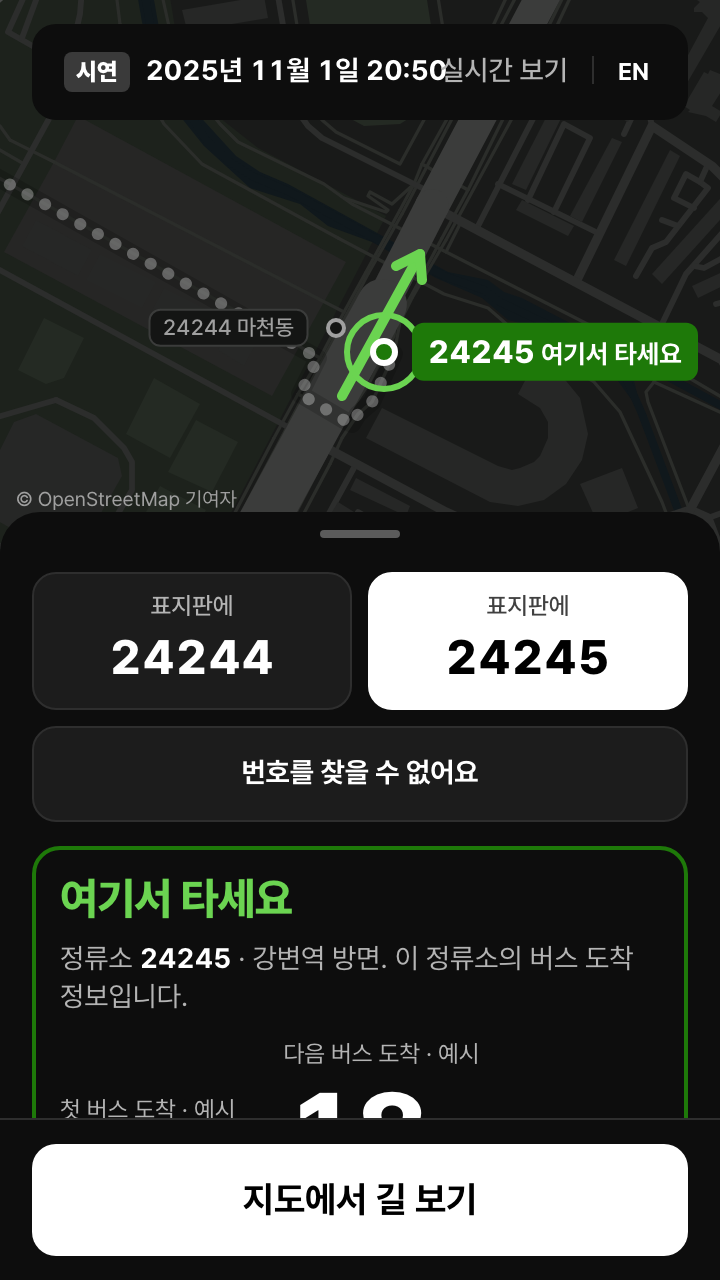
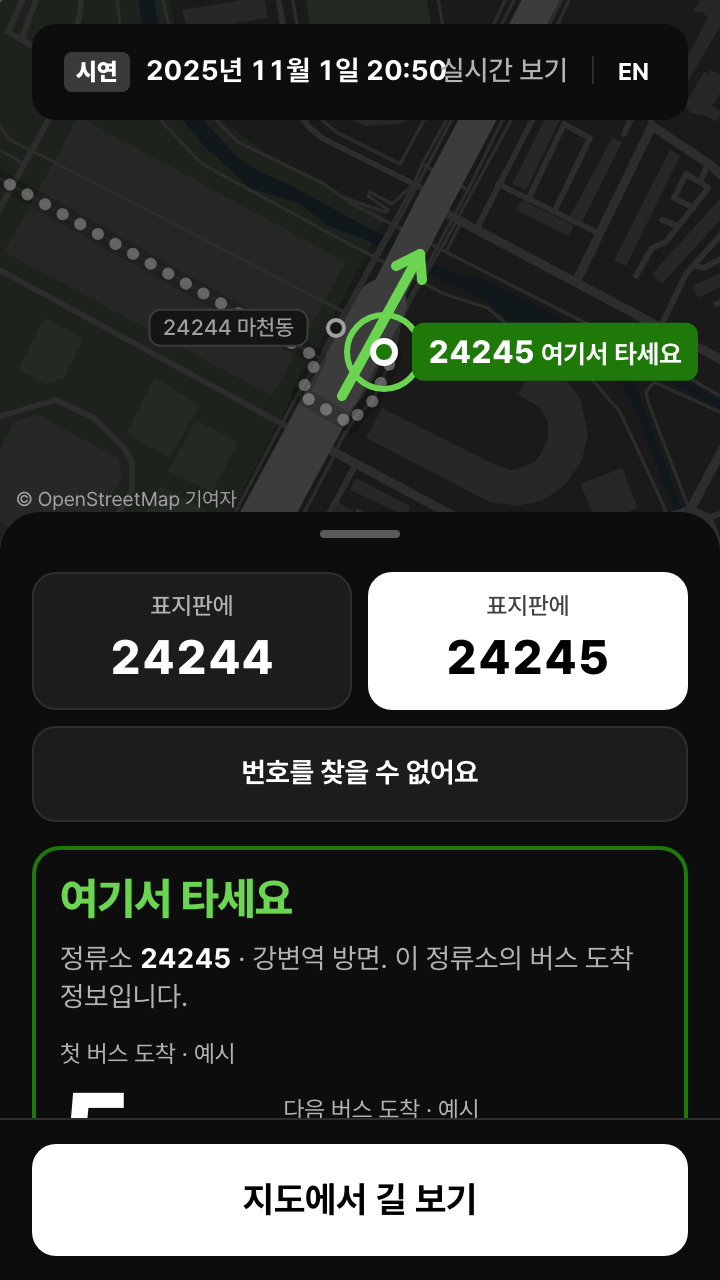
정류소 확인에서 맞는 번호를 누르면 도보 시간 없이 도착 판정

diff --git a/public/app.js b/public/app.js
@@ -88,9 +88,13 @@
   }).catch(function () { $('view').innerHTML = '<p class="pad">' + T('동선 자료를 불러오지 못했습니다. 새로고침해 주세요.', 'Could not load the route data. Please refresh.') + '</p>'; });
 
   // ---------- 버스 도착 ----------
+  // 정류소 확인에서 맞는 번호를 눌렀으면 이미 정류소에 서 있다: 도보 시간을 빼지 않는다
+  function here(x) { return view === 'go' && x.kind === 'bus' && at === x.o.ars_id; }
   function pack(x, list) { // list: [{sec,msg,isLast}]
+    var on = here(x);
     var buses = list.slice(0, 2).map(function (b) {
-      var m = b.sec == null ? null : Math.floor(b.sec / 60), gap = b.sec == null ? null : b.sec / 60 - x.walk;
+      var m = b.sec == null ? null : Math.floor(b.sec / 60), gap = b.sec == null ? null : b.sec / 60 - (on ? 0 : x.walk);
+      if (on && gap != null) return { min: m, gap: gap, msg: b.msg, isLast: b.isLast, cls: 'ok', text: T('탈 수 있음', 'You can make it') };
       return { min: m, gap: gap, msg: b.msg, isLast: b.isLast,
         cls: gap == null ? '' : gap >= HURRY ? 'ok' : gap >= 0 ? 'hurry' : 'miss',
         text: gap == null ? T('확인 필요', 'Check') : gap >= HURRY ? T('탈 수 있음', 'You can make it') : gap >= 0 ? (x.k === 'gangbyeon' ? T('신호에 따라 다름', 'Depends on the signal') : T('서두르면 가능', 'Hurry')) : T('놓칠 수 있음', 'May miss') };
@@ -245,6 +249,11 @@
         '<span class="v ' + b.cls + '">' + b.text + '</span></div>';
     }).join('') + '</div>';
     var b = a.buses[a.f];
+    if (here(x)) {
+      h += '<p class="small">' + T('정류소에 서 있으니 걷는 시간 없이 도착 시간만으로 판정했습니다.', 'You are at the stop, so only the arrival time is counted, with no walking time.') + '</p>';
+      if (a.asOf) h += '<p class="small">' + T('서울시 응답 ', 'Seoul data at ') + a.asOf + (b && b.msg ? ' · ' + esc(busMsg(b.msg)) : '') + T(' · 30초마다 갱신', ' · refreshes every 30 s') + '</p>';
+      return h + last;
+    }
     h += bar(x, b);
     if (x.k === 'gangbyeon') h += '<p class="small">' + T('도보 약 ' + x.walk + '분 · 신호 대기 별도', 'About ' + x.walk + ' min walk, plus waiting at the signal') + '</p>';
     if (b) h += '<p class="small">' + T('도착 ' + b.min + '분 − 도보 ' + x.walk + '분 = 여유 ' + Math.floor(b.gap) + '분 (' + HURRY + '분 이상이면 탈 수 있음)',

diff --git a/README.md b/README.md
@@ -86,7 +86,7 @@ KSPO DOME 현장 귀가 안내입니다. 목적지를 입력하지 않고 방면
 
 | 누른 것 | 결과 | 지도 |
 | --- | --- | --- |
-| 고른 방면과 같은 번호 | ‘여기서 타세요’ + 그 정류소 도착 정보(시연·실시간 기존 로직) | 정류장에 고리 표시 |
+| 고른 방면과 같은 번호 | ‘여기서 타세요’ + 그 정류소 도착 정보. 이미 정류소에 서 있으므로 도보 시간을 빼지 않고 판정(도착 예정이 있으면 모두 ‘탈 수 있음’) | 정류장에 고리 표시 |
 | 다른 번호 | ‘○○ 방면은 길 건너편이에요’ + 타는 곳 번호 크게 + 양재대로 신호 횡단보도로 건너는 방법·거리 | 지금 선 곳 → 신호 횡단보도 → 타는 곳 점선 |
 | 번호를 찾을 수 없어요 | 표지판에서 다섯 자리 번호 찾는 법 + 24244 공원 쪽 4번 출구 앞 / 24245 길 건너 1번 출구 쪽 | 기본 지도 |
 
